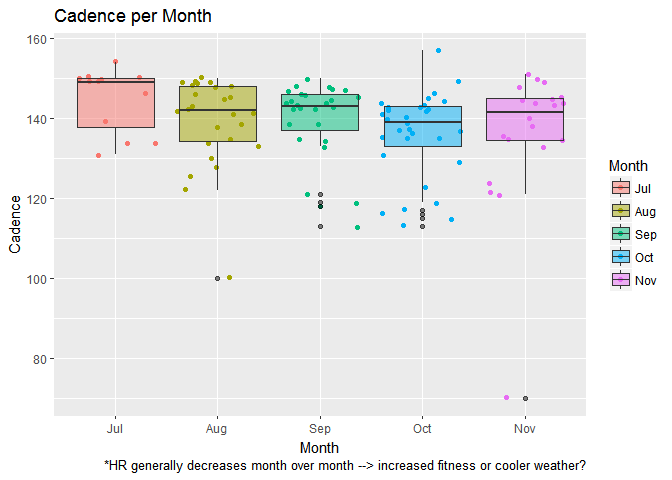
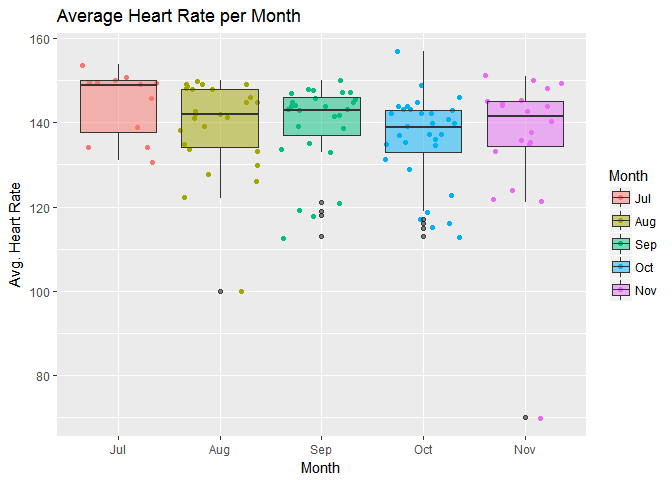
Add boxplots for Heart Rate and Cadence by Run Type

diff --git a/R_Analysis_git.md b/R_Analysis_git.md
@@ -4,7 +4,7 @@ Marathon Training Plan Data Analysis
 *Initial Data Inspection*
 =========================
 
-Fist, I load in the CSV file created in the **R\_Cleaning\_Garmin\_Strava** script file, which contains the combined dataset of runs from my Philadelphia Marathon training plan from both Strava and Garmin Connect. I then inspect the data to make sure I have all the correct data in the correct data types.
+First, I load in the CSV file created in the **R\_Cleaning\_Garmin\_Strava** script file, which contains the combined dataset of runs from my Philadelphia Marathon training plan from both Strava and Garmin Connect. I then inspect the data to make sure I have all the correct data in the correct data types.
 
     ## 'data.frame':    116 obs. of  18 variables:
     ##  $ X             : int  12 15 94 4 6 8 13 16 95 5 ...
@@ -46,9 +46,22 @@ head(runs,2)
 Alright, cool. But it looks like my Date field, **Date**, total run time field, **Time**, and average pace (min/mile) field, **Avg.Pace**, are not in the POSIXct format needed. So let's put them back into the correct format.
 
 ``` r
+library(lubridate)
+```
+
+    ## 
+    ## Attaching package: 'lubridate'
+
+    ## The following object is masked from 'package:base':
+    ## 
+    ##     date
+
+``` r
 runs$Time <- as.POSIXct(runs$Time)#, format = '%H:%M:%S')
 runs$Avg.Pace <- as.POSIXct(runs$Avg.Pace)#, format = '%H:%M:%S')
 runs$Date <- as.POSIXct(runs$Date)
+runs$StartTime <- hour(strptime(runs$StartTime, format = '%H:%M'))
+
 str(runs)
 ```
 
@@ -59,7 +72,7 @@ str(runs)
     ##  $ Date          : POSIXct, format: "2016-07-19" "2016-07-20" ...
     ##  $ Month         : Factor w/ 5 levels "Aug","Jul","Nov",..: 2 2 2 2 2 2 2 2 2 2 ...
     ##  $ DOW           : Factor w/ 7 levels "Fri","Mon","Sat",..: 6 7 5 1 3 4 6 7 5 1 ...
-    ##  $ StartTime     : Factor w/ 89 levels "10:01","10:09",..: 57 50 66 45 70 75 45 36 63 35 ...
+    ##  $ StartTime     : int  5 5 6 5 7 8 5 5 6 5 ...
     ##  $ Distance      : num  9.01 11 4 11 6 ...
     ##  $ Time          : POSIXct, format: "2017-03-18 01:04:59" "2017-03-18 01:23:29" ...
     ##  $ Avg.Pace      : POSIXct, format: "2017-03-18 00:07:13" "2017-03-18 00:07:35" ...
@@ -99,7 +112,7 @@ runs[which.max(runs$Distance[runs$Date < "2016-11-20"]),]
     ##           ID     Name                   Gear       Date Month DOW
     ## 67 732206487 Long Run Brooks Ghost Red/Black 2016-10-02   Oct Sun
     ##    StartTime Distance                Time            Avg.Pace Speed.mph
-    ## 67      8:38       24 2017-03-18 02:55:35 2017-03-18 00:07:19    3.6667
+    ## 67         8       24 2017-03-18 02:55:35 2017-03-18 00:07:19    3.6667
     ##    Cad Elevation.Gain Avg.HR Max.HR Calories  RunType
     ## 67 175            789    143    158     2129 Long Run
 
@@ -109,43 +122,38 @@ Another important metric for runners is their **cadence**, which is the number o
 
 ![](R_Analysis_git_files/figure-markdown_github/cadence%20by%20month-1.png)
 
-So, barring some outliers, I can see that my cadence tended to generally increases month over month, and ended up averagin between 170 and 180, barring those outliers. I would assume they were mainly recovery runs, as I was mainly concerned with keeping my heart rate down so I could actually recover on them than I was with making sure my cadence was optimal. I could investigate to see if this was due to having more speed workouts as the plan progressed, in which I would assume my cadence was typically higher), or could it have been due to improved form from an ever-increasing volume?
+So, barring some outliers, I can see that my cadence tended to generally increases month over month, and ended up averagin between 170 and 180, barring those outliers. I would assume they were mainly recovery runs, as I was mainly concerned with keeping my heart rate down so I could actually recover on them than I was with making sure my cadence was optimal. I could investigate to see if this was due to having more speed workouts as the plan progressed, in which I would assume my cadence was typically higher), or could it have been due to improved form from an ever-increasing volume????
 
-avg. HR grouped by month
-========================
-
-``` r
-ggplot(data = runs, aes(Month, Avg.HR)) + 
-  geom_jitter(aes(colour = Month)) +
-  geom_boxplot(aes(fill = Month), 
-               outlier.colour = "black", alpha = 0.5) + #geom_jitter()
-  xlab("Month") + 
-  ylab("Cadence") + 
-  ggtitle("Cadence per Month") + 
-  labs(caption="*HR generally decreases month over month --> increased fitness or cooler weather?")
-```
+Another metric would be my average heart rate during runs over the course of the training. Compared to the rise of my cadence, we would expect that my average heart rate would have decreased over time, as my fitness would have increased due to higher mileage and an increasing number of workouts.
 
 ![](R_Analysis_git_files/figure-markdown_github/HR%20by%20month%20boxplot-1.png)
 
+So we can see that my hear rate had generally decreased month over month. Now while I would hope it was due to increased fitness (and I still believe that to be the case, just by how I felt during my runs), the drops in temperature as we moved from summer to fall also may have played a part. Since it would have been cooler out, the body would not have been working as hard to cool itself down during my runs, so my heart rate would not have been as high. Maybe finding the historical temperature data and bringing it in could bring some insights into this question.
+
+Now let's look at cadence and heart rate by Run Type as well for comparisons.
+
+![](R_Analysis_git_files/figure-markdown_github/cadence%20by%20run%20type-1.png)
+
+We can ignore the variability in the **Race** run type, since it's only on race. But we can still see that it was either my maximum cadence, or the second or third highest after those 2 quickest workout cadences. We can also see that my recovery runs had the least variability, and recovery runs as well as normal runs. I also expected my workouts to have the highest cadence, but it has the lowest median. I can only assume that this was due to recovery sections of interval runs, or warm-ups and cooldowns during tempo runs which were *much* slower and relaxed than even recovery runs. Now let's look at heart rate.
+
+![](R_Analysis_git_files/figure-markdown_github/heart%20rate%20by%20run%20type-1.png)
+
+As expected, my heart rate was lowest during recovery runs. We can also see that there were 2 runs were my heart rate monitor was off, since my average heart rate was around 70. Also, my average heart rate was not very variable for the other 3 types of runs, excluding the race. My Long runs also tended to have a lower average heart rate than my "normal" runs, which I personally did not expect. But this does a make a little sense, since I was supposed to run at a bit of a slower pace so that I could run longer. Also, I did expect my heart rate to be higher during workouts, since they were designed to to push my heart rate to the max during **V02 intervals**, and was supposed to be elevated during those "comfortably hard" **tempo runs**. I can also see that there was one single workout wherein it was higher than my average heart rate during the marathon.
+
 ``` r
-#tbl <- tapply(runs$Avg.HR,runs$Month,median)
+runs[which.max(runs$Avg.HR),]
 ```
 
-average heart rate per run over plan --&gt; line
-================================================
+    ##           ID        Name                      Gear       Date Month DOW
+    ## 73 738343078 Tune-Up Run Hoka One One Clifton Reds 2016-10-08   Oct Sat
+    ##    StartTime Distance                Time            Avg.Pace Speed.mph
+    ## 73        10     9.33 2017-03-18 01:00:53 2017-03-18 00:06:32    4.1107
+    ##    Cad Elevation.Gain Avg.HR Max.HR Calories RunType
+    ## 73 139            257    157    169      939 Workout
 
-``` r
-ggplot(data = runs, aes(x = Date, y = Avg.HR)) + 
-  geom_line(aes(group=1)) +
-  theme(axis.text.x = element_blank()) +
-  xlab("Time") + 
-  ylab("Average Heart Rate") + 
-  ggtitle("Average Heart Rate Over Time") + 
-  labs(caption="*Very slight general decrease, with outliers of about 100 in the 1st third of the plan and 
-70 in the last 3rd of the plan")
-```
+So we can see that my max heart rate was during my 10k Tune-up Race, which does not surprise me since it SUCKED.
 
-![](R_Analysis_git_files/figure-markdown_github/HR%20over%20time-1.png)
+`{ r heart rate over time}  ggplot(data = runs, aes(x = Date, y = Avg.HR)) +    geom_line(aes(group=1)) +   theme(axis.text.x = element_blank()) +   xlab("Time") +    ylab("Average Heart Rate") +    ggtitle("Average Heart Rate Over Time") +    labs(caption="*Very slight general decrease, with outliers of about 100 in the 1st third of the plan and  70 in the last 3rd of the plan")`
 
 average pace over plan line
 ===========================
@@ -162,22 +170,3 @@ ggplot(data = runs, aes(x = Date, y = Avg.Pace)) +
 ```
 
 ![](R_Analysis_git_files/figure-markdown_github/avg%20pace-1.png)
-
-cadence boxplot by run type
-===========================
-
-``` r
-ggplot(data = runs, aes(x=RunType, y=Cad, fill = RunType)) + 
-  geom_boxplot(alpha = 0.5) + 
-  geom_jitter(aes(colour = RunType)) +
-    #stat_summary(fun.y="median", geom="bar", alpha = 0.1) + 
-  expand_limits(y = 130) + 
-  xlab("Run Type") + 
-  ylab("Cadence") + 
-  coord_flip() + 
-  ggtitle("Cadence by Run Type") + 
-  labs(caption="*The actual marathon had the highest cadence, which makes sense. Workouts had widest variety - 
-       inspect more, recovery runs abit slower, but less variant, long runs second slowest")
-```
-
-![](R_Analysis_git_files/figure-markdown_github/cadence%20by%20run%20type-1.png)
